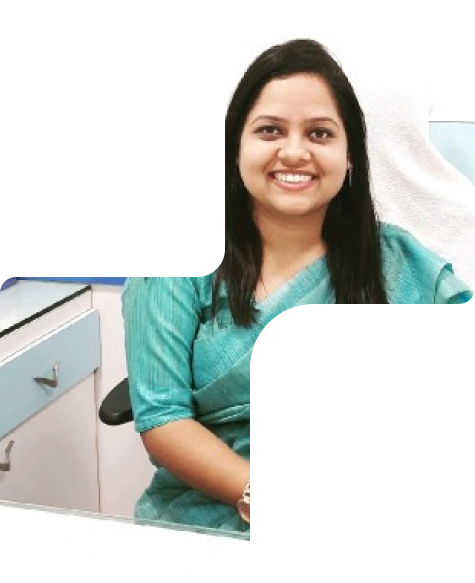
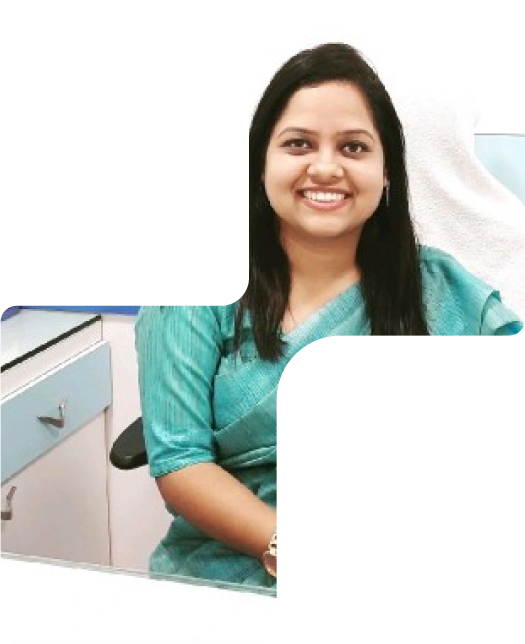
refoctor :imgs for big screen bg

diff --git a/index.html b/index.html
@@ -36,11 +36,11 @@
       style="
         background-image: url(./src/img/grid-wo-border.svg);
         z-index: -20;
-        background-position: center;
+        background-position: bottom -7rem right 9rem;
         background-repeat: no-repeat;
       "
       id="hero-section"
-      class="relative mx-12 border-solid border-light-500 border-x h-[calc(100vh-5rem)] flex flex-col"
+      class="relative mx-12 border-solid border-light-500 border-x h-[calc(100vh-5rem)] flex flex-col max-lg:bg-center"
     >
       <div>
         <img
@@ -59,30 +59,30 @@
           life
         </p>
       </div>
-      <div class="flex mt-6">
+      <div class="flex mt-6 justify-center">
         <button
-          class="mx-auto text-2xl text-white py-4 px-8 bg-primary-500 border-solid border-4 border-primary-400 rounded-full shadow-md"
+          class="text-2xl text-white py-3 px-7 bg-primary-500 border-solid border-4 border-primary-400 rounded-full shadow-md"
         >
           Get Appointment
         </button>
       </div>
 
       <div
-        class="h-[60%] w-full grid grid-cols-4 relative bottom-16 max-lg:grid-cols-2"
+        class="h-[40.8125rem] w-full grid grid-cols-4 absolute bottom-36 max-lg:grid-cols-2"
       >
         <img
-          class="-z-10 relative left-2 top-12"
+          class="-z-10 relative left-2 top-0"
           src="./src/img/depressed.png"
           alt="depressed-logo"
         />
         <div class="relative max-lg:hidden">
           <img
-            class="-z-20 absolute -left-20 top-24"
+            class="-z-20 absolute -left-20 top-40"
             src="./src/img/arrow.svg"
             alt="arrow"
           />
           <img
-            class="-z-10 absolute bottom-0"
+            class="-z-10 absolute bottom-0 -left-12"
             src="./src/img/smiling.png"
             alt="smiling-logo"
           />
@@ -94,14 +94,19 @@
             alt="doctor"
           />
           <img
+            class="absolute -z-10 right-0 bottom-4"
+            src="./src/img/Indicator.png"
+            alt="Indicator"
+          />
+          <img
             class="absolute -bottom-4 left-[60%] -z-10"
             src="./src/img/youtube.svg"
             alt="youtube"
           />
         </div>
       </div>
-
-      <!-- <div
+      <!-- 
+      <div
         class="bg-grid-pattern bg-cover relative bottom-0 -z-20 border-solid border-4 h-full w-full"
       >
         <img
@@ -110,8 +115,8 @@
           alt="grid"
         />
       </div> -->
-
-      <!-- <img
+      <!-- 
+      <img
         class="absolute -bottom-28 right-36 -z-20"
         src="./src/img/grid-wo-border.svg"
         alt="grid"

diff --git a/src/index.css b/src/index.css
@@ -8,7 +8,10 @@
     src: url("./fonts/Sansation_Regular.ttf");
   }
 }
+
 /* #hero-section {
-  background-image: url("./src/img/grid-wo-border.svg");
-  background-size: cover;
+  background-image: url(./src/img/grid-wo-border.svg);
+  z-index: -20;
+  background-position: bottom -7rem right 9rem;
+  background-repeat: no-repeat;
 } */
